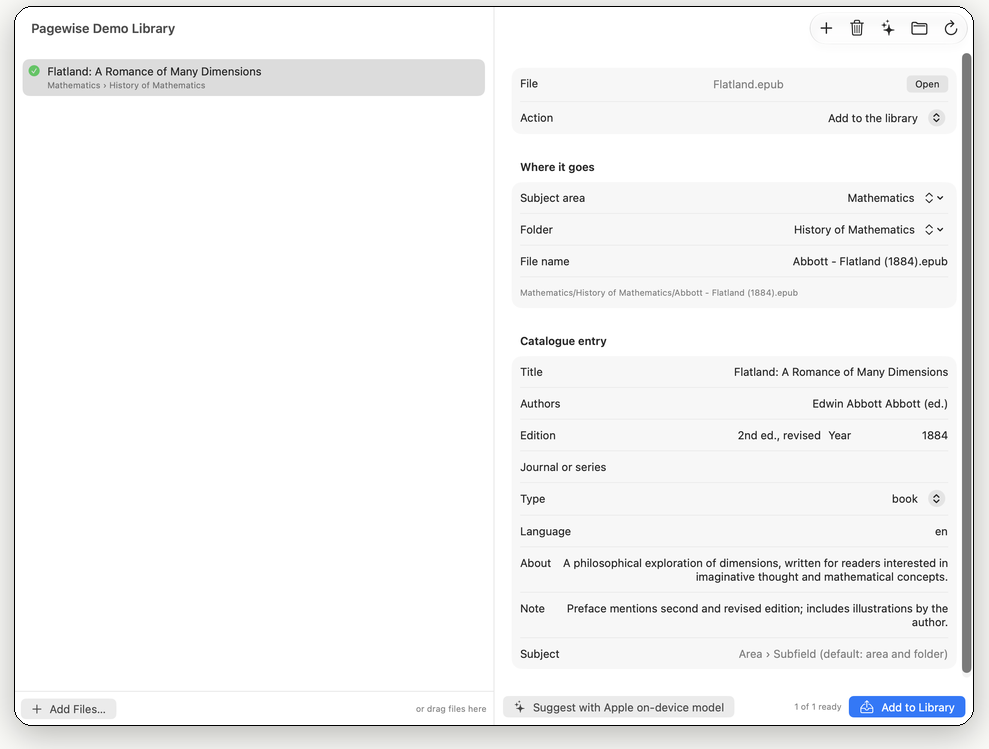
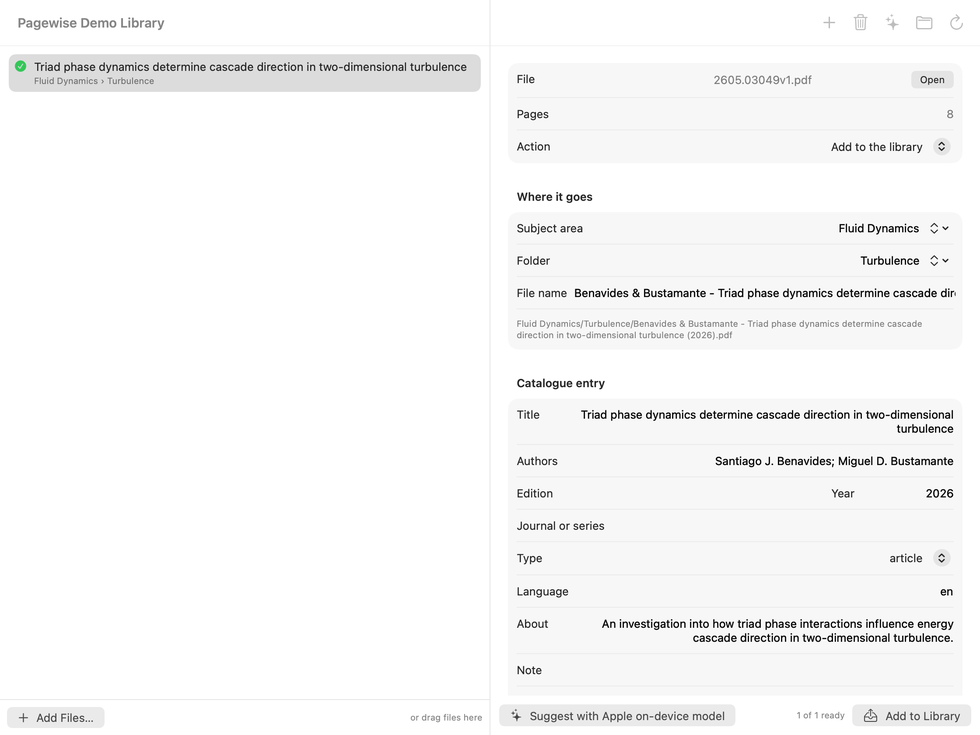
0.6.1: links, version and SHA-256; the Inbox picture from 0.6.1 (the paper filed beside the turbulence article)
Claude-Session: https://claude.ai/code/session_01B2LBzdfjyb7HxsHFaCze8E

diff --git a/index.html b/index.html
@@ -35,7 +35,7 @@
       <button type="button" data-lang="en" aria-pressed="true">EN</button>
       <button type="button" data-lang="zh" aria-pressed="false">中文</button>
     </span>
-    <a class="btn" href="https://github.com/xxln/pagewise-app/releases/download/v0.6.0/Pagewise-0.6.0.dmg">
+    <a class="btn" href="https://github.com/xxln/pagewise-app/releases/download/v0.6.1/Pagewise-0.6.1.dmg">
       <svg viewBox="0 0 24 24" fill="none" stroke="currentColor" stroke-width="2.4" stroke-linecap="round" stroke-linejoin="round" aria-hidden="true"><path d="M12 4v11m0 0-4.5-4.5M12 15l4.5-4.5M5 20h14"/></svg>
       <span class="label"><span class="en">Download</span><span class="zh">下载</span></span>
     </a>
@@ -58,13 +58,13 @@
       <span class="en">Pagewise is a Mac app for your library of PDFs and EPUBs. It searches inside every page and opens the document at the right page, with your words highlighted. As you read, you write notes on passages, explain ideas in your own words and see how they connect on a map, every statement traced back to its page. AI helps: it files new books, points you to passages and lets assistants cite your pages. It never writes your notes.</span>
       <span class="zh">Pagewise 是一款管理 PDF 和 EPUB 资料库的 Mac 应用：在每一页里全文搜索，点一下就打开到那一页，搜索词高亮显示。阅读时，你在原文旁写下笔记，用自己的话解释概念，在一张地图上看到它们如何相连，每一句话都能追溯到原文那一页。AI 只是协助：为新书编目、把你引向值得一读的段落、让 AI 助手引用你的书页，但从不替你写笔记。</span>
     </p>
-    <a class="btn big" href="https://github.com/xxln/pagewise-app/releases/download/v0.6.0/Pagewise-0.6.0.dmg">
+    <a class="btn big" href="https://github.com/xxln/pagewise-app/releases/download/v0.6.1/Pagewise-0.6.1.dmg">
       <svg viewBox="0 0 24 24" fill="none" stroke="currentColor" stroke-width="2.4" stroke-linecap="round" stroke-linejoin="round" aria-hidden="true"><path d="M12 4v11m0 0-4.5-4.5M12 15l4.5-4.5M5 20h14"/></svg>
       <span class="en">Download for Mac, free</span><span class="zh">免费下载 Mac 版</span>
     </a>
     <p class="meta">
-      <span class="en">Version 0.6.0 beta · macOS 14 Sonoma or later · Apple silicon and Intel · 38 MB</span>
-      <span class="zh">版本 0.6.0 测试版 · macOS 14 或更高版本 · Apple 芯片和 Intel · 38 MB</span>
+      <span class="en">Version 0.6.1 beta · macOS 14 Sonoma or later · Apple silicon and Intel · 38 MB</span>
+      <span class="zh">版本 0.6.1 测试版 · macOS 14 或更高版本 · Apple 芯片和 Intel · 38 MB</span>
     </p>
     <p class="notice">
       <span class="en"><b>First launch:</b> this beta is not yet notarized by Apple, so macOS blocks it the first time. Allow it once in <b>System Settings › Privacy &amp; Security › Open Anyway</b>. <a href="#open">How to open it</a></span>
@@ -240,7 +240,7 @@
         <p><span class="en">Drag new files into the Inbox. An AI model reads the first pages, fills in the title, authors, edition and year, and files each book beside the most similar one you already have, under the subjects you use. You check the entry before anything moves.</span>
            <span class="zh">把新文件拖进收件箱。AI 模型阅读前几页，填好书名、作者、版次和年份，并把每本书放到你库里最相似的那本书旁边，沿用你已有的学科。文件移动之前，你都可以检查条目。</span></p>
       </div>
-      <img class="shot" src="assets/4-inbox.png" alt="The Inbox with a suggested catalogue entry" loading="lazy" width="989" height="749">
+      <img class="shot" src="assets/4-inbox.png" alt="The Inbox with a suggested catalogue entry: a turbulence paper filed in Fluid Dynamics › Turbulence, beside the turbulence article already there" loading="lazy" width="980" height="735">
     </div>
 
     <div class="feature">
@@ -302,8 +302,8 @@
     <h2><span class="en">Install</span><span class="zh">安装</span></h2>
     <p class="sub"><span class="en">Pagewise needs macOS 14 Sonoma or later, on Apple silicon or Intel.</span><span class="zh">需要 macOS 14 或更高版本，Apple 芯片或 Intel 均可。</span></p>
     <ol class="steps">
-      <li><span class="en"><a href="https://github.com/xxln/pagewise-app/releases/download/v0.6.0/Pagewise-0.6.0.dmg">Download Pagewise-0.6.0.dmg</a> and open it.</span>
-          <span class="zh"><a href="https://github.com/xxln/pagewise-app/releases/download/v0.6.0/Pagewise-0.6.0.dmg">下载 Pagewise-0.6.0.dmg</a> 并打开。</span></li>
+      <li><span class="en"><a href="https://github.com/xxln/pagewise-app/releases/download/v0.6.1/Pagewise-0.6.1.dmg">Download Pagewise-0.6.1.dmg</a> and open it.</span>
+          <span class="zh"><a href="https://github.com/xxln/pagewise-app/releases/download/v0.6.1/Pagewise-0.6.1.dmg">下载 Pagewise-0.6.1.dmg</a> 并打开。</span></li>
       <li><span class="en">Drag <b>Pagewise</b> onto <b>Applications</b>.</span><span class="zh">把 <b>Pagewise</b> 拖到 <b>应用程序</b>（Applications）。</span></li>
       <li><span class="en">Open Pagewise. The first time, macOS stops it because this beta is not yet notarized by Apple: allow it once as shown in <a href="#open">Opening Pagewise the first time</a>.</span>
           <span class="zh">打开 Pagewise。因为这个测试版还没有经过 Apple 公证，第一次打开时 macOS 会阻止它：按 <a href="#open">第一次打开 Pagewise</a> 里的步骤允许一次即可。</span></li>
@@ -338,18 +338,18 @@
       </div>
       <div class="card">
         <h3><span class="en">Check the download</span><span class="zh">核对下载文件</span></h3>
-        <p><span class="en">SHA-256 of Pagewise-0.6.0.dmg:</span><span class="zh">Pagewise-0.6.0.dmg 的 SHA-256：</span></p>
-        <p class="hash">4908c37b5ed09c6c580149afd5142cbded0bb027fe8a7a93a9987bf0b58939ce</p>
+        <p><span class="en">SHA-256 of Pagewise-0.6.1.dmg:</span><span class="zh">Pagewise-0.6.1.dmg 的 SHA-256：</span></p>
+        <p class="hash">58779769e40dfcda19135efbb88bfa1884ba0d414682e241b5d55055e797b3e3</p>
         <p><span class="en">To check it, paste this in <b>Terminal</b> and compare the result with the line above (change the path if you saved the file elsewhere):</span>
            <span class="zh">核对方法：在“终端”里粘贴下面这一行，把结果和上面那一行比较（如果文件不在“下载”文件夹里，请改成实际路径）：</span></p>
         <div class="cmd">
-          <code id="checksum">shasum -a 256 ~/Downloads/Pagewise-0.6.0.dmg</code>
+          <code id="checksum">shasum -a 256 ~/Downloads/Pagewise-0.6.1.dmg</code>
           <button type="button" class="copy" data-copy="checksum"><span class="en">Copy</span><span class="zh">复制</span></button>
         </div>
       </div>
     </div>
     <div class="cta" style="margin-top:44px">
-      <a class="btn big" href="https://github.com/xxln/pagewise-app/releases/download/v0.6.0/Pagewise-0.6.0.dmg">
+      <a class="btn big" href="https://github.com/xxln/pagewise-app/releases/download/v0.6.1/Pagewise-0.6.1.dmg">
         <svg viewBox="0 0 24 24" fill="none" stroke="currentColor" stroke-width="2.4" stroke-linecap="round" stroke-linejoin="round" aria-hidden="true"><path d="M12 4v11m0 0-4.5-4.5M12 15l4.5-4.5M5 20h14"/></svg>
         <span class="en">Download for Mac, free</span><span class="zh">免费下载 Mac 版</span>
       </a>
